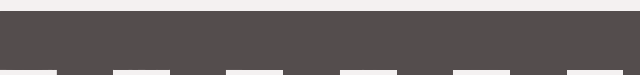
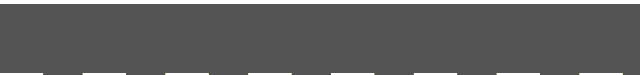
asfalto bonitinho, porque sim

diff --git a/src/Janela.java b/src/Janela.java
@@ -229,7 +229,7 @@ public class Janela extends javax.swing.JFrame implements KeyListener {
         pistas[0] = new Calcada();
         pistas[0].setLabel(componentesEstaticos.getCalcada2());
 
-        int index = 0;
+        /*int index = 0;
         for (Pista pista : pistas) {
             if (pista instanceof Asfalto) {
                 if (index == 1) {
@@ -246,7 +246,13 @@ public class Janela extends javax.swing.JFrame implements KeyListener {
             }
             index++;
 
-        }
+        }*/
+        pistas[5].setBackground(ImageIO.read(new File("imagens/calcadaTeste.png")));
+        pistas[4].setBackground(ImageIO.read(new File("imagens/AsfaltoFaixaBordaSuperior.png")));
+        pistas[3].setBackground(ImageIO.read(new File("imagens/AsfaltoFaixaPista.png")));
+        pistas[2].setBackground(ImageIO.read(new File("imagens/AsfaltoPistaFaixa.png")));
+        pistas[1].setBackground(ImageIO.read(new File("imagens/AsfaltoFaixaBordaInferior.png")));
+        pistas[0].setBackground(ImageIO.read(new File("imagens/calcadaTeste.png")));
     }
 
 
